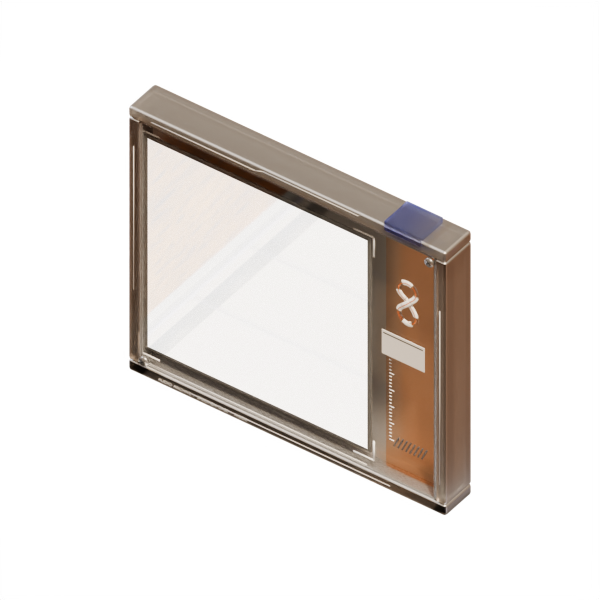
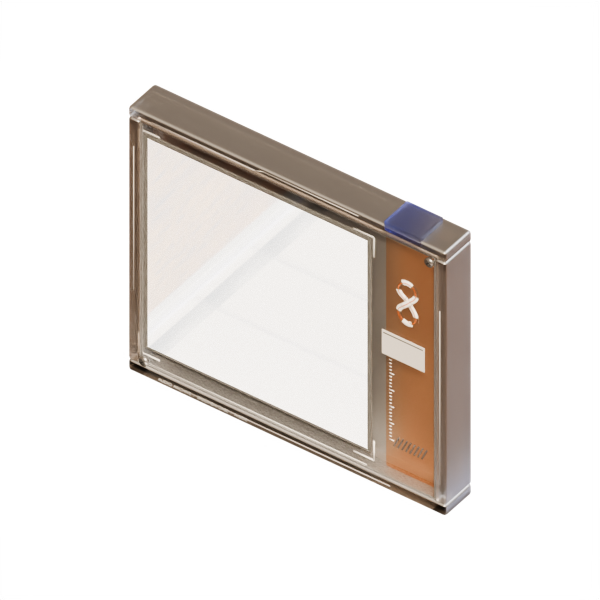
REAL STYLE: front light, no reflections in the wood
The scene is now lit from the camera's side (warm sun from the front, cool rim from
behind), which brightens the case fronts and keeps every shadow behind the shelves.
A floor can turn its glow layer off ("glow": false in floor.json); REAL STYLE does,
so the wood shows no reflections of the cases.

Changed region(s): [[0.21, 0.15, 0.81, 0.87]]

diff --git a/theme/js/archive.js b/theme/js/archive.js
@@ -374,7 +374,7 @@ function floorImages() {
         FLOOR.img = { plate: d2d.Image(dir + "plate.jpg") };
         for (const k of ["mid", "front", "back"]) for (const part of ["", "-far"]) {
             FLOOR.img[`shade-${k}${part}`] = d2d.Image(dir + `shade-${k}${part}.png`);
-            FLOOR.img[`glow-${k}${part}`] = d2d.Image(dir + `glow-${k}${part}.png`);
+            if (FLOOR.meta.glow !== false) FLOOR.img[`glow-${k}${part}`] = d2d.Image(dir + `glow-${k}${part}.png`);
         }
     }
     // an image that could not be read leaves the floor plain (rather than failing the whole paint)
@@ -391,7 +391,8 @@ function drawFloor(gr, rows, G, Ox, Oy, k, toScreen) {
     // over all its slots (one image, no seams between slots); the ends are drawn as they are
     const ax = CASE_META.axes.x, ay = CASE_META.axes.y, az = CASE_META.axes.z, fz = -F.meta.floor_z, det = ax[0] * ay[1] - ay[0] * ax[1];
     const zx = fz * az[0], zy = fz * az[1];   // the floor lies fz below the sprites' origin plane
-    for (const layer of ["shade-", "glow-"]) for (const [gi, r] of rows) for (const part of ["", "-far"]) {
+    // "glow": false in floor.json: shade only (no reflections of the cases and strips in the floor)
+    for (const layer of F.meta.glow === false ? ["shade-"] : ["shade-", "glow-"]) for (const [gi, r] of rows) for (const part of ["", "-far"]) {
         const row = G[gi], pos = r.pos.x, x = -pos * ROWP, n = slotCount(row);
         const alpha = Math.round(rowAlpha(pos) * (1 - rowTint(pos)) * (part ? clamp(1 - pos, 0, 1) : 1));
         if (alpha <= 0) continue;
